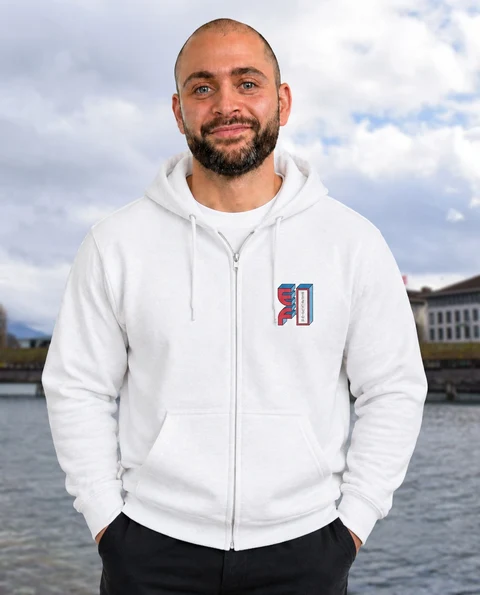
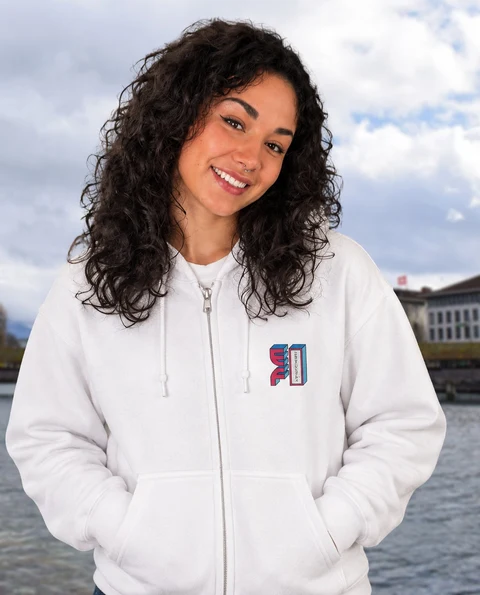
Carlotta joins: first 7 team photos, captions name the wearer

diff --git a/components/story/Story.tsx b/components/story/Story.tsx
@@ -2,10 +2,11 @@ import Image from "next/image";
 import Link from "next/link";
 import { BERTIL, BOSTON, CYCLING, EF_TODAY, HULT, ORIGIN, RAND, SOURCES, STORE_QUOTES, WHO } from "@/lib/facts";
 import Photo from "./Photo";
-const models = { name: "Jonathan" };
 import modelPhotos from "@/data/models.json";
 
 const HAS_MODEL = (id: string) => id !== "_note" && id in (modelPhotos as Record<string, string>);
+// Who is wearing it: the first word of the photo caption ("Carlotta in the ...").
+const wearer = (id: string) => (modelPhotos as Record<string, string>)[id].split(" ")[0];
 import s from "./Story.module.css";
 
 // The EF story, told as a story: a kid who couldn't learn English in school, a trip,
@@ -14,7 +15,7 @@ import s from "./Story.module.css";
 // store's own product photos, so the story always leads back to a shirt.
 
 function Sticker({ id, tilt = 0, size = "m", label }: { id: string; tilt?: number; size?: "s" | "m" | "l"; label: string }) {
-  // Every design with a photo of Jonathan wearing it shows that photo instead of the flat product.
+  // Every design with a photo of a team member wearing it shows that photo instead of the flat product.
   if (HAS_MODEL(id)) return <ModelShot id={id} tilt={tilt} label={label} />;
   return (
     <Link href={`/product/${id}`} className={`${s.sticker} ${s[size]}`} style={{ rotate: `${tilt}deg` }}>
@@ -24,12 +25,12 @@ function Sticker({ id, tilt = 0, size = "m", label }: { id: string; tilt?: numbe
   );
 }
 
-// A photo of Jonathan wearing the design (AI-generated, labeled), shown like a pinned print.
+// A photo of a team member wearing the design (AI-generated, labeled), shown like a pinned print.
 function ModelShot({ id, tilt = 0, label }: { id: string; tilt?: number; label: string }) {
   return (
     <Link href={`/product/${id}`} className={`${s.sticker} ${s.model}`} style={{ rotate: `${tilt}deg` }}>
-      <Image src={`/images/models/${id}.jpg`} alt={`${models.name} wearing the ${label} (AI-generated image)`} width={1136} height={1408} quality={90} sizes="(min-width: 900px) 520px, 100vw" />
-      <span className={s.stickerLabel}>{label} · {models.name} · AI image</span>
+      <Image src={`/images/models/${id}.jpg`} alt={`${wearer(id)} wearing the ${label} (AI-generated image)`} width={1136} height={1408} quality={90} sizes="(min-width: 900px) 520px, 100vw" />
+      <span className={s.stickerLabel}>{label} · {wearer(id)} · AI image</span>
     </Link>
   );
 }

diff --git a/lib/products.ts b/lib/products.ts
@@ -26,7 +26,7 @@ export type Product = {
   returns: string[];
   size_chart: { unit: "in"; rows: SizeRow[] } | null;
   source_url: string;
-  /** Set when an AI-generated photo of Jonathan wearing this design leads the gallery. */
+  /** Set when an AI-generated photo of a team member wearing this design leads the gallery. */
   model?: string;
 };
 
@@ -42,9 +42,9 @@ export type Collection = {
 };
 
 const MODELS = models as Record<string, string>;
-// Products with a photo of Jonathan wearing them lead with that photo (labeled as AI-generated).
+// Products with a photo of a team member wearing them lead with that photo (labeled as AI-generated).
 const RAW = (data as { products: Product[] }).products;
-/** The photo of Jonathan for a product: its own, or (boxy tees) the one of the same print on the regular tee. */
+/** The photo of a team member for a product: its own, or (boxy tees) the one of the same print on the regular tee. */
 const modelFor = (p: Product): string | undefined => {
   if (MODELS[p.id]) return p.id;
   if (p.garment !== "Boxy Tee") return undefined;
@@ -54,7 +54,7 @@ const modelFor = (p: Product): string | undefined => {
 export const PRODUCTS = RAW.map((p) => {
   const m = modelFor(p);
   return m ? { ...p, model: MODELS[m], images: [`/images/models/${m}.jpg`, ...p.images] } : p;
-}).sort((a, b) => Number(!!b.model) - Number(!!a.model)); // photos of Jonathan lead every list (stable sort)
+}).sort((a, b) => Number(!!b.model) - Number(!!a.model)); // team-member photos lead every list (stable sort)
 export const isModelImage = (src: string) => src.startsWith("/images/models/");
 
 const GARMENT_GROUPS: Record<string, Garment[]> = {

diff --git a/components/shop/ProductDetail.tsx b/components/shop/ProductDetail.tsx
@@ -59,7 +59,7 @@ export default function ProductDetail({ p, collectionName, shipping, returnsExtr
             className={s.mainImg}
           />
           {isModelImage(p.images[img]) && (
-            <p className={s.aiNote}>AI-generated image of a real person (Jonathan, Hult MBA 2026) wearing this design.</p>
+            <p className={s.aiNote}>AI-generated image of {p.model?.split(" ")[0]}, a real member of our Hult team, wearing this design (with consent).</p>
           )}
         </div>
         {p.images.length > 1 && (
